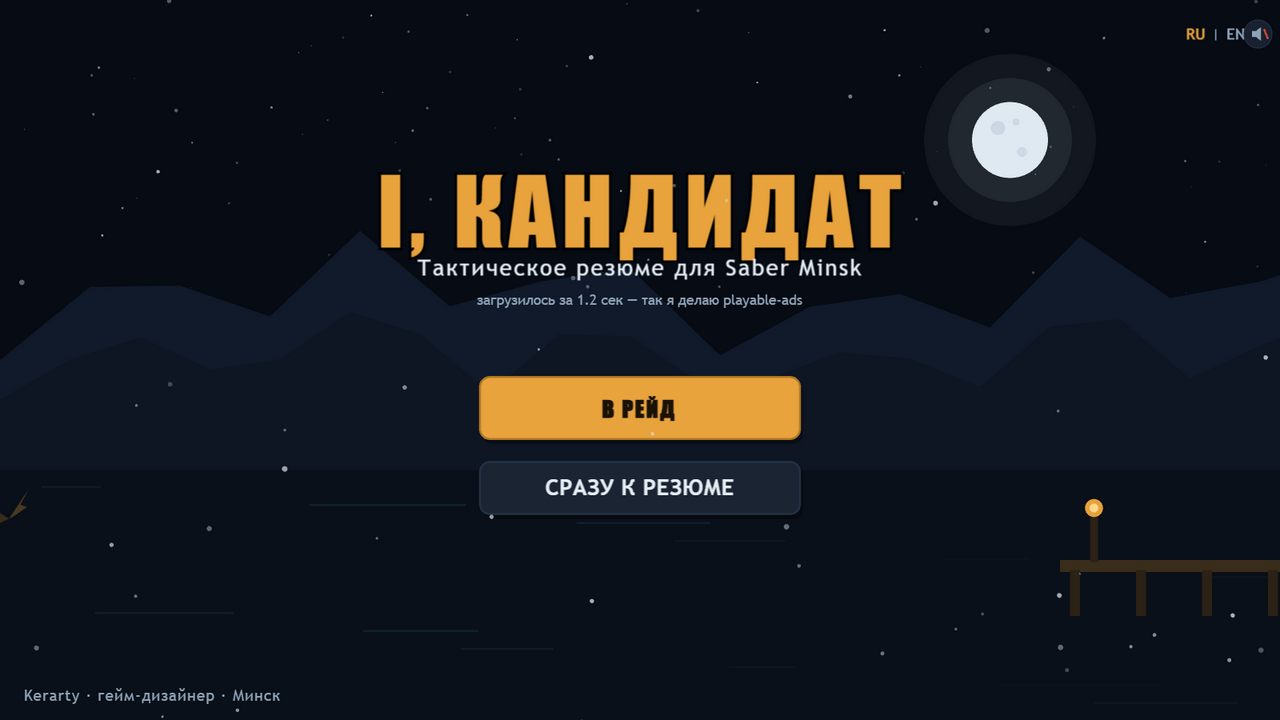
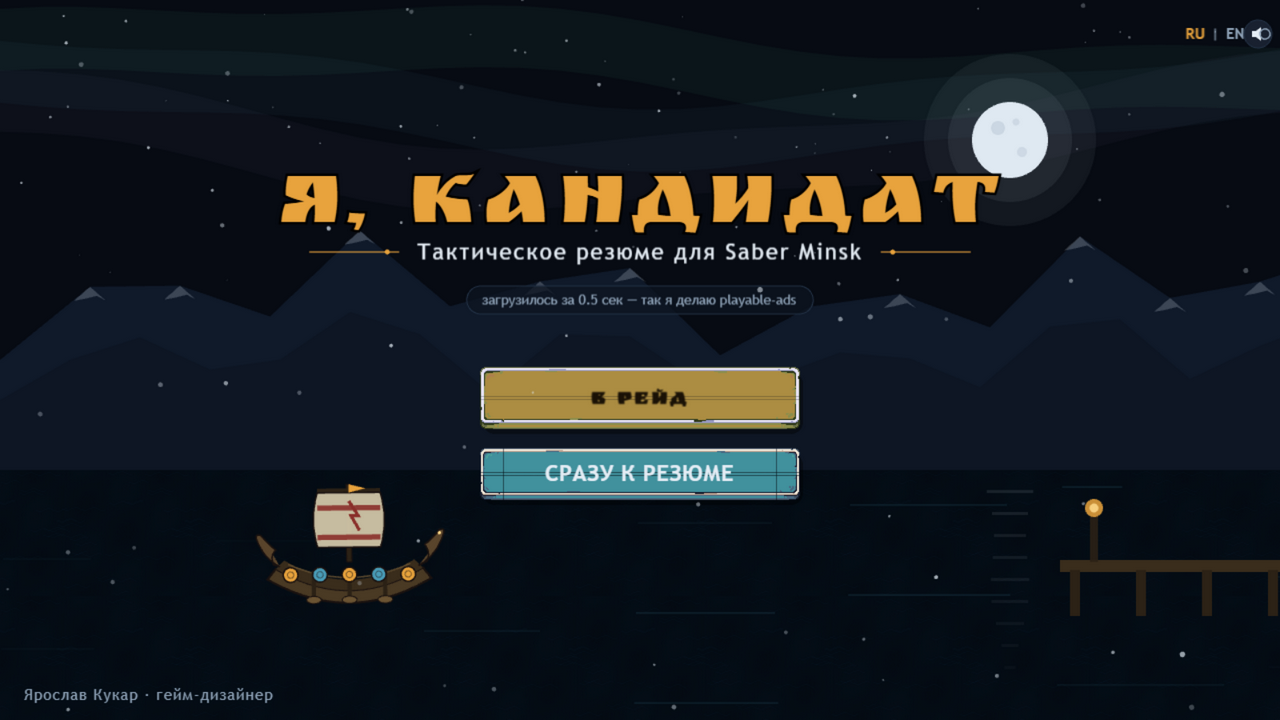
обновил скриншоты и README под новый визуал

diff --git a/README.md b/README.md
@@ -12,7 +12,7 @@
 Обычное резюме HR читает 30 секунд и закрывает. Это резюме они проходят сами:
 волна за волной открываются разделы портфолио, и к экрану победы кандидат уже
 «принят в отряд». Форма отвечает содержанию — я делаю playable-ads, поэтому
-и резюме собрано по их канонам: один HTML-файл, ~900 КБ, ноль сетевых запросов,
+и резюме собрано по их канонам: один HTML-файл, ~1.6 МБ, ноль сетевых запросов,
 работает офлайн и с file://.
 
 Сеттинг не случайный: I, Viking — собственная игра Saber Minsk, Gloomhaven
@@ -34,6 +34,17 @@
 - RU/EN, тач-управление, процедурная графика и звук (WebAudio)
 
 ![Лист кандидата](assets/06-resume.png)
+
+## Визуал
+
+Бой и деревня стоят на тайлах Tiny Swords: травяной остров в ночном фьорде,
+тайловая вода с дрейфом, деревья и кусты по краям поля. Интерфейс сшит из того
+же пака: кнопки-девять-слайсы (золотые и синие с металлической кромкой),
+пергаментные панели в гвинт-стиле с деревянной рамой и золотыми уголками,
+карточки фактов — гвинт-карты на пергаменте. Драккар, аватар викинга и босс-тотем
+нарисованы кодом поверх.
+
+![Карты способностей](assets/03b-cards.png)
 
 ## Запуск
 
@@ -57,9 +68,10 @@ node build.js   # инлайнит src/ + PixiJS в index.html
 - PixiJS 8 — рендер (инлайн в HTML, без CDN)
 - чистый JavaScript, без сборщиков и фреймворков
 - WebAudio — процедурный звук
-- спрайты юнитов и зданий — [Tiny Swords](https://pixeltroop.itch.io/tiny-swords) от pixeltroop (free license), вшиты base64
+- арт-пак [Tiny Swords](https://pixelfrog-assets.itch.io/tiny-swords) от Pixel Frog (free license):
+  юниты, здания, тайлы острова и воды, UI-кнопки и пергамент — вшиты base64
 - шрифты Ruslan Display и Yeseva One (SIL OFL) — base64
-- остальной арт рисуется кодом: процедурные эффекты, интерфейс, босс
+- остальное рисуется кодом: драккар, аватар, босс-тотем, эффекты, снег, северное сияние
 
 ## Структура
 
